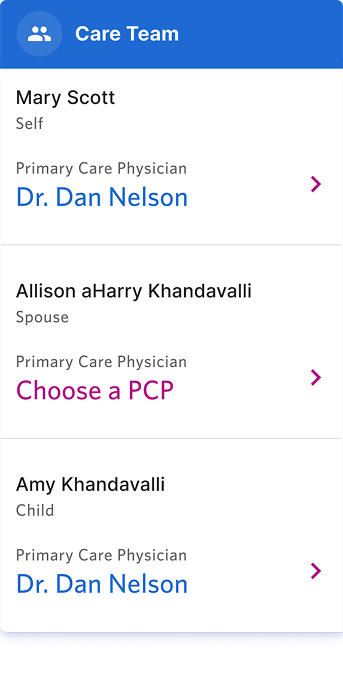
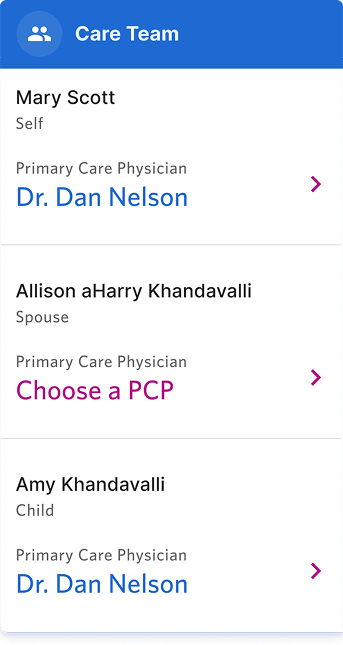
Update process copy and care team screen

diff --git a/app/page.tsx b/app/page.tsx
@@ -61,7 +61,7 @@ const offerings = [
 const processSteps = [
   {
     name: "Understand people and context",
-    body: "Learn how patients, caregivers, and clinicians work. Explore their goals, environments, and constraints to understand where a design can help.",
+    body: "Learn how clinicians, caregivers, and patients navigate care together. Explore their goals and the constraints they face to understand how design can help.",
   },
   {
     name: "Model the workflow",
@@ -150,7 +150,7 @@ const workCards: readonly WorkCard[] = [
               duration: 70,
               images: [
                 { src: "/images/dellchildrens/all-claims.png", width: 343, height: 853 },
-                { src: "/images/dellchildrens/care-team.png", width: 343, height: 678 },
+                { src: "/images/dellchildrens/care-team.png", width: 343, height: 645 },
               ],
             },
             {
@@ -348,7 +348,8 @@ export default function Home() {
             <p className="mt-4 font-sans text-[16px] leading-[1.6] text-black/70 md:mt-5 md:text-[18px]">
               I bring a human factors engineering perspective to healthcare design. I study how people understand
               information, make decisions, and complete tasks within the realities of care, then work with clinical
-              and product teams to turn that understanding into accessible, usable experiences.
+              and product teams to turn that understanding into accessible, usable experiences that remove barriers to
+              delivering and receiving care.
             </p>
             <ol className="mt-8 grid grid-cols-1 gap-4 md:mt-10 md:grid-cols-2 md:gap-6">
               {processSteps.map((step, i) => (
